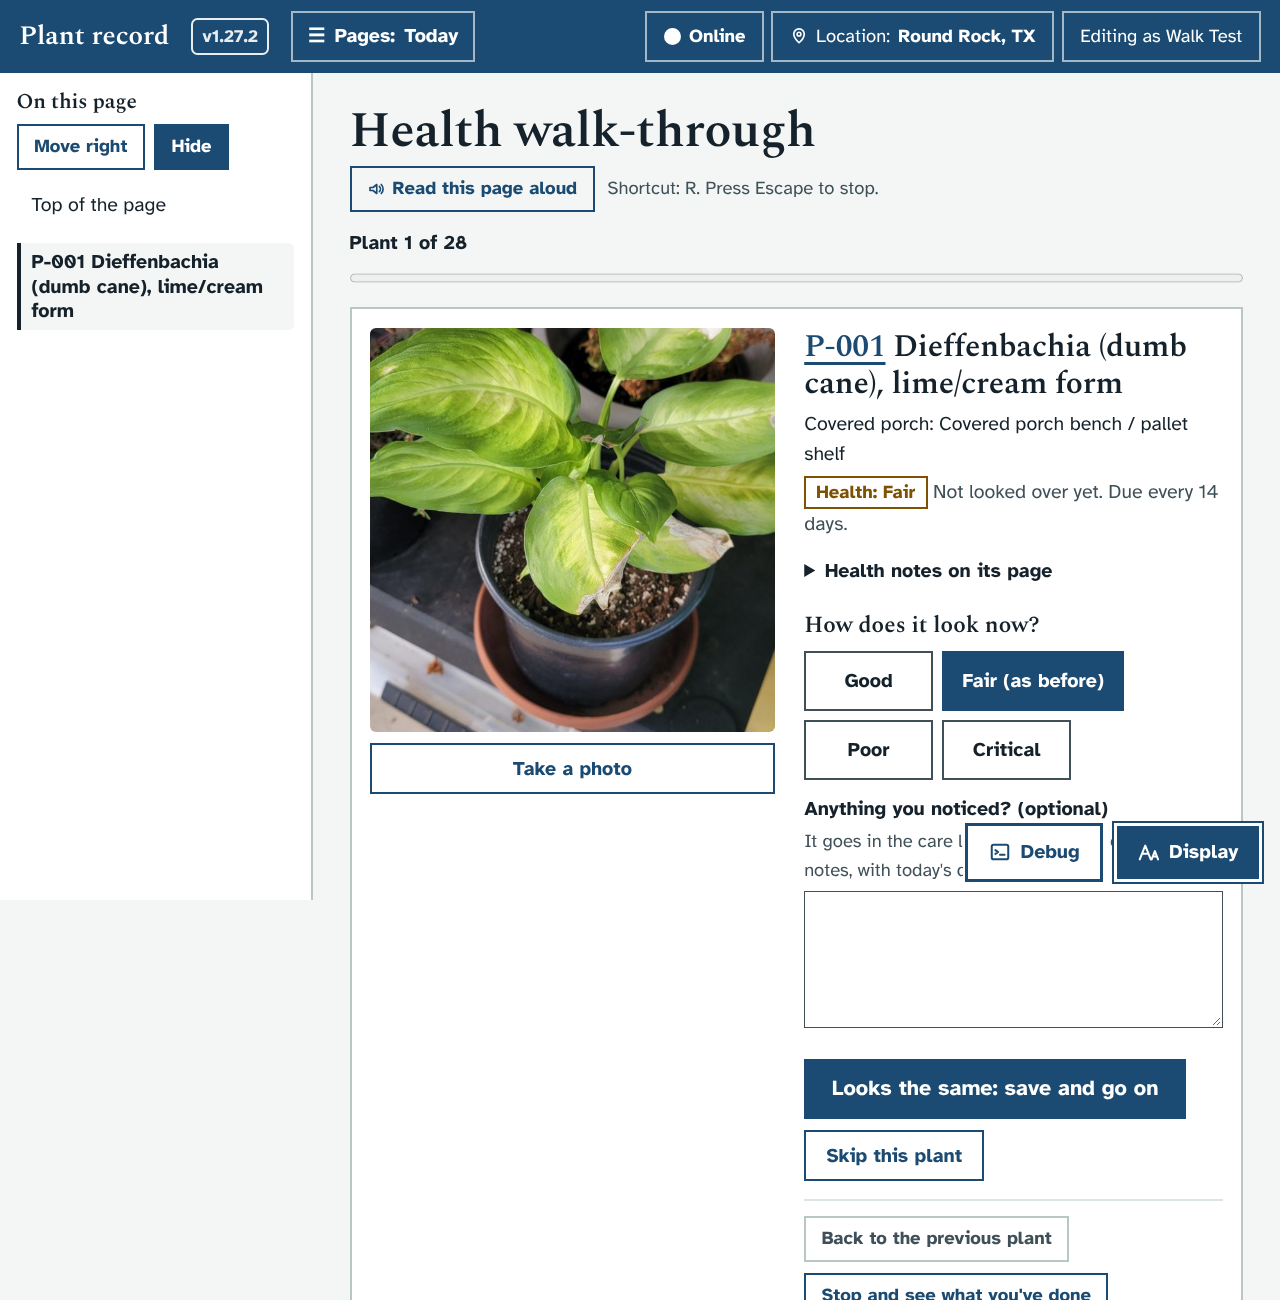
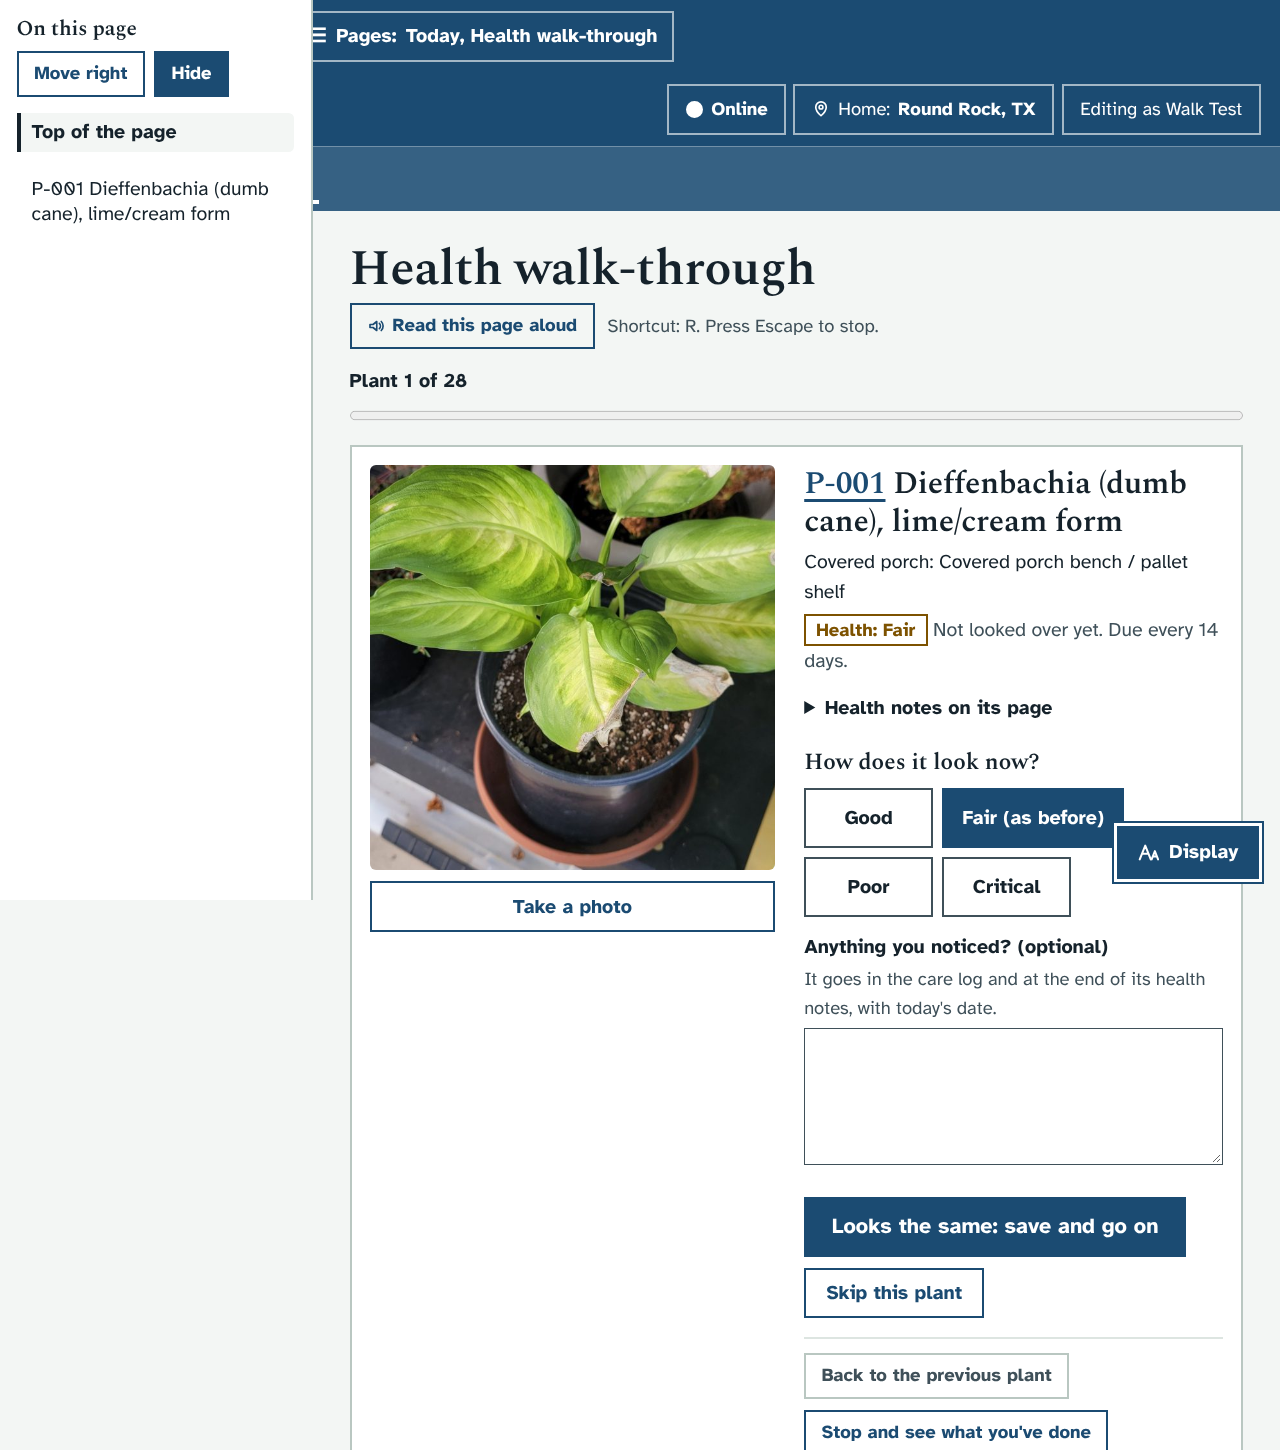
Health walk-through: write-up and screenshots for Ethan's answers
Claude-Session: https://claude.ai/code/session_01Utgyt8gfigLzXAGRMegKwH

Changed region(s): [[0.0, 0.0, 1.0, 0.7077], [0.625, 0.8, 0.9375, 1.0]]

diff --git a/docs/prototypes/health-walk.md b/docs/prototypes/health-walk.md
@@ -5,7 +5,7 @@ Branch: `proto/health-walk`
 ## What it does and why
 Each plant has a health rating (Good, Fair, Poor or Critical). With about 85 plants, it's easy for the ratings to go stale, and there was no quick way to go round and check them. The health walk-through lets you go round your plants one at a time, on a phone in the garden or at the computer, and say how each one looks today.
 
-- **Today page:** a new line near the top says how many plants haven't been looked over for 14 days or more, with a **Health walk-through** button.
+- **Where to find it:** in the top bar, **Today** now has a second page, **Health walk-through**. The Today page also has a line saying how many plants are due, with a button.
 - **Choosing the plants** (`#/checkup`). Three rows of big buttons:
   - **Which plants:** the due ones, or all of them.
   - **Where:** everywhere, or one location (Outdoors, Covered porch...).
@@ -82,4 +82,4 @@ Nothing in its structure: no new tables or columns. It adds a new kind of care l
 
 ## Open questions for Ethan
 1. Should a group's number also make its plants due **later** than 7 days when they are in Poor or Critical health (for example cacti you only want to check monthly)? At the moment Poor or Critical always wins when it is shorter.
-2. Should the walk-through have its own link in the list of pages, or is the line on Today enough?
+2. With the new top bar (1.29.0), the walk-through is a second page under **Today**. Is that the right place, or would you rather have it under **Plants** or **Care**?
